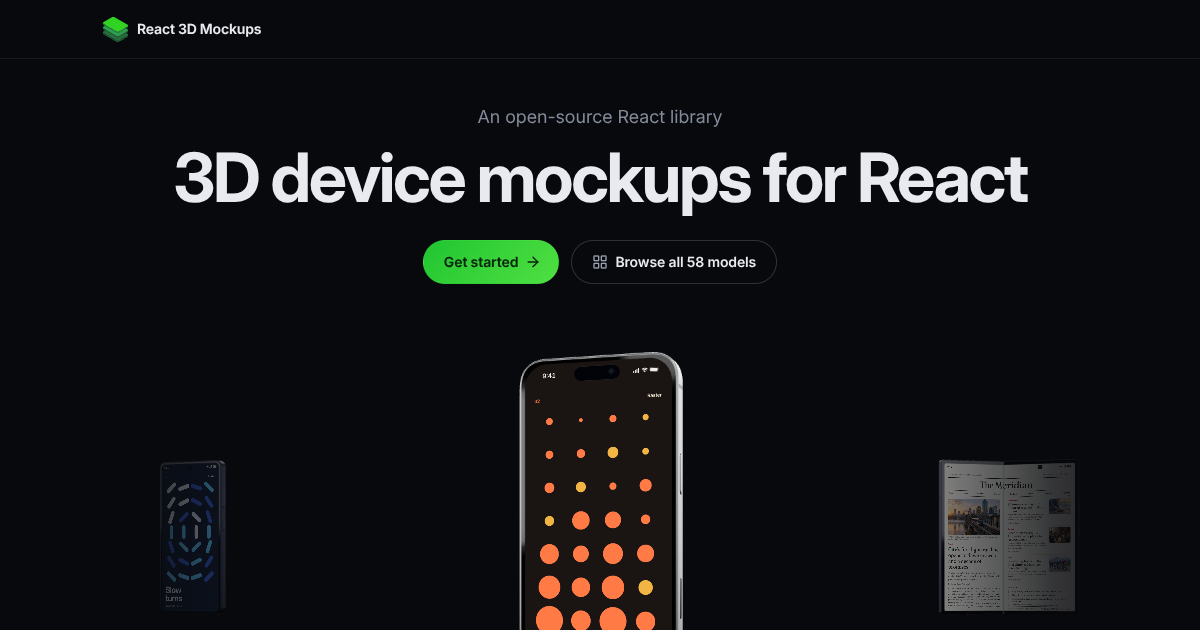
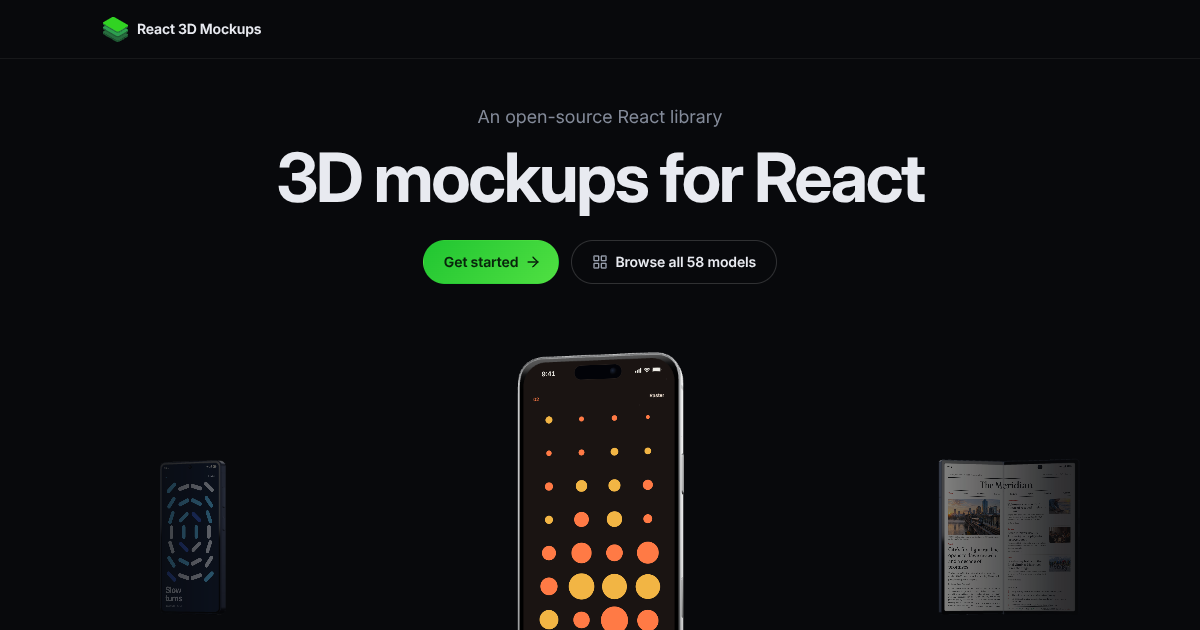
Home page: "3D mockups for React" and a turning model on stage; document screen input (#64)
Home page:
- The headline, the page title and the description drop "device": 58
  models, 25 of them objects - books, cartons, a bus. The social card is
  re-rendered with the new headline.
- The model on stage turns while autoplay runs, two turns a minute (the
  library's `autoRotate` step at speed 2, about 72 degrees over a slide). It
  is the slot's own turn, not the shared tumble's: the tumble resets on every
  slide change, which would snap the outgoing model back mid-flight. Weighted
  by how close the slot is to centre, the turn eases out as the model slides
  off stage and starts from nothing on its next visit. It stops with
  autoplay - on Pause, at the first interaction, off screen, and under a
  reduced-motion preference - so the Pause button still stops all motion.

Docs and READMEs, for `experimentalScreenInput` and `screenDrag`:
- package README: "Screens are display-only" becomes "Screens and input",
  which keeps the reasoning for the default and adds the experimental mode:
  how it works, who gets a drag, what it costs. Its old claim that lifting
  the DOM above the canvas "is the only way" and "that trade is not offered"
  is gone. Both props join the stage table; slots mention `screenDrag`.
- root README, introduction, quick start: one line each on the opt-in.
- accessibility: a section on screens that take input - they join the
  accessibility tree, so treat their content as page content.
[…]

Changed region(s): [[0.1233, 0.2413, 0.8633, 0.3619], [0.4317, 0.5429, 0.5858, 1.0], [0.1233, 0.754, 0.185, 0.9349]]

diff --git a/apps/docs/components/scenes/carousel-scene.tsx b/apps/docs/components/scenes/carousel-scene.tsx
@@ -51,7 +51,7 @@ import {
   type Colorway,
   type MockupKind,
 } from 'react-3d-mockups'
-import { DEFAULT_CAMERA_FOV, ORBIT } from 'react-3d-mockups/core'
+import { DEFAULT_CAMERA_FOV, ORBIT, tumbleAutoRotateStep } from 'react-3d-mockups/core'
 import { BillboardAdArt, ChalkHoursArt, ChalkMenuArt } from '../screens/print-art'
 import { SUNPEEL_FLAVOURS, SunpeelRear, SunpeelSide } from '../screens/bus-wrap'
 import { CartonBack, CartonFacts, CartonFront, CartonRoof, CartonStory } from '../screens/carton-art'
@@ -181,6 +181,14 @@ const CAROUSEL_OPEN_ANGLE = 150
 
 /** Resting pose - a slight turn reads as three-dimensional at a glance. */
 const BASE_RY = -0.3
+
+/**
+ * How fast the model on stage turns while autoplay runs, as the library's
+ * `autoRotate` speed: 2 is two turns a minute, about 72 degrees over one
+ * six-second slide - enough to read as turning, not so much that the screen
+ * spends the slide facing away.
+ */
+const STAGE_SPIN_SPEED = 2
 /**
  * Vertical limit, matched to the stage's polar clamp: the library's controls
  * orbit the camera between `ORBIT.minPolarAngle` and its mirror, which from a
@@ -958,16 +966,26 @@ function StageSlot({
   index,
   anim,
   tumble,
+  spin,
   color,
 }: {
   entry: Entry
   index: number
   anim: RefObject<number>
   tumble: RefObject<Tumble>
+  /** Whether the model on stage turns on its own: autoplay is running. */
+  spin: RefObject<boolean>
   color: string
 }) {
   const group = useRef<Group>(null)
   const hovered = useRef(false)
+  /*
+   * This slot's own turn, not the shared tumble's: the tumble resets on every
+   * slide change, which would snap the outgoing model back mid-flight. Kept
+   * per slot and weighted by `near` like the tumble, the turn eases out as
+   * the model slides off stage, and starts from nothing on its next visit.
+   */
+  const turn = useRef(0)
 
   /*
    * Priority -1, then an explicit matrix flush.
@@ -979,7 +997,7 @@ function StageSlot({
    * itself from where the device used to be, and the DOM visibly trails the
    * body while a slide is in flight.
    */
-  useFrame((state) => {
+  useFrame((state, delta) => {
     const g = group.current
     if (!g) return
     const extent = extentOf(entry, g)
@@ -988,12 +1006,16 @@ function StageSlot({
     // distinguishes the device on stage from the ones flanking it.
     const t = Math.min(Math.abs(d), 1)
     const near = 1 - t
+    // Only the model on stage turns; a frame after a hidden tab is clamped so
+    // it cannot jump.
+    if (spin.current && t < 0.5) turn.current += tumbleAutoRotateStep(Math.min(delta, 0.1), STAGE_SPIN_SPEED)
+    else if (t >= 1) turn.current = 0
     const scale = extent.scale * (1 - (1 - SIDE_SCALE) * t) * (hovered.current && t > 0.5 ? 1.05 : 1)
     g.position.x = d * SPACING - extent.cx * scale
     g.position.y = STAGE_Y - extent.cy * scale + Math.sin(state.clock.elapsedTime * 1.1) * 0.05 * near
     g.position.z = -1.4 * t
     g.scale.setScalar(scale)
-    g.rotation.y = (entry.yaw ?? 0) + BASE_RY + (tumble.current.yaw - BASE_RY) * near
+    g.rotation.y = (entry.yaw ?? 0) + BASE_RY + (tumble.current.yaw - BASE_RY + turn.current) * near
     g.rotation.x = ((entry.tilt ?? 0) + tumble.current.pitch) * near
     g.updateMatrixWorld(true)
   }, -1)
@@ -1218,6 +1240,13 @@ export default function CarouselScene() {
   const stageRef = useRef<HTMLDivElement>(null)
   const onScreen = useOnScreen(stageRef)
   const playing = autoOn && ready && onScreen
+  // Read every frame by the staged slots: the model on stage turns while
+  // autoplay runs, and stops with it - on Pause, at the first interaction,
+  // off screen, and under a reduced-motion preference.
+  const spinning = useRef(false)
+  useEffect(() => {
+    spinning.current = playing
+  }, [playing])
 
   useEffect(() => {
     if (!playing) return
@@ -1586,6 +1615,7 @@ export default function CarouselScene() {
                     index={i}
                     anim={anim}
                     tumble={tumble}
+                    spin={spinning}
                     color={colorOf(dev)}
                   />
                 ) : null

diff --git a/apps/docs/lib/prop-tables.generated.ts b/apps/docs/lib/prop-tables.generated.ts
@@ -37,6 +37,8 @@ export const SHARED_PROPS: PropDoc[] = [
     {"name":"onCreated","type":"(state) => void","default":"-","description":"react-three-fiber's onCreated, called once with the canvas state (gl, scene, camera, ...) - for example to read gl.info."},
     {"name":"label","type":"string","default":"per model","description":"Accessible name of the canvas, which has role=\"img\". Mockups default to a description of the model (\"3D mockup of a Galaxy S phone\"); MockupCanvas on its own to \"3D mockup\". See Accessibility."},
     {"name":"screenAccessibility","type":"'hidden' | 'visible'","default":"'hidden'","description":"Whether screen content is exposed to assistive technology. 'hidden' marks every screen aria-hidden and inert, so decorative screen content stays out of the accessibility tree and the tab order; 'visible' exposes it."},
+    {"name":"experimentalScreenInput","type":"boolean","default":"false","description":"Experimental. The screens take pointer and keyboard input: each screen's DOM is stacked above the canvas and clipped every frame to the part no hardware covers. Screens join the accessibility tree while it is on. See Screen content."},
+    {"name":"screenDrag","type":"boolean","default":"true","description":"With experimentalScreenInput: whether a drag that starts on a screen rotates the model (after 10 px, unless the content claims the drag). false leaves every drag on the screens to the content. A slot's own screenDrag overrides it for that screen. See Who gets a drag."},
     {"name":"className","type":"-","default":"-","description":"Forwarded to the canvas wrapper."},
     {"name":"style","type":"-","default":"-","description":"Forwarded to the canvas wrapper."},
   ]

diff --git a/apps/docs/app/llms.txt/route.ts b/apps/docs/app/llms.txt/route.ts
@@ -18,7 +18,7 @@ const HEADER = `# react-3d-mockups
 
 > 3D device and object mockups for React, rendered with three.js and react-three-fiber. Your content - React components, images, video, iframes - renders as live DOM on the screen or printable surface of a procedurally generated model: ${DEVICES.length} devices (phones, foldables, tablets, laptops, watches, a monitor) and ${OBJECTS.length} objects (print, packaging, out-of-home, vehicles, a TV, custom-size panels and boxes).
 
-Install with \`npm install react-3d-mockups three @react-three/fiber @react-three/drei\` (React 19). Screens are display-only: content renders live, but pointer input goes to the orbit controls, never to the screen. WebGL only exists in the browser, so SSR frameworks load mockups client side. The full text of every page below is at ${absoluteUrl('/llms-full.txt')}.`
+Install with \`npm install react-3d-mockups three @react-three/fiber @react-three/drei\` (React 19). By default screens are display-only: content renders live, but pointer input goes to the orbit controls, never to the screen. The experimental \`experimentalScreenInput\` prop lets screens take input, clipped to the part no hardware covers. WebGL only exists in the browser, so SSR frameworks load mockups client side. The full text of every page below is at ${absoluteUrl('/llms-full.txt')}.`
 
 function item(url: string) {
   const page = source.getPages().find((p) => p.url === url)

diff --git a/apps/docs/lib/site.ts b/apps/docs/lib/site.ts
@@ -20,9 +20,9 @@ export const SITE_URL = (
 ).replace(/\/$/, '')
 
 /** The home page's title and description, also the site-wide fallbacks. */
-export const SITE_TITLE = 'React 3D Mockups: 3D device mockups for React'
+export const SITE_TITLE = 'React 3D Mockups: 3D mockups for React'
 export const SITE_DESCRIPTION =
-  '3D device mockups for React, built on three.js. What you put on a screen - a component, a video, an iframe - is live DOM, and keeps running.'
+  '3D mockups of devices and objects for React, built on three.js. What you put on a screen - a component, a video, an iframe - is live DOM, and keeps running.'
 
 /**
  * The repository and the package, for every outbound link the site makes.

diff --git a/apps/docs/app/(site)/page.tsx b/apps/docs/app/(site)/page.tsx
@@ -239,7 +239,7 @@ export default function HomePage() {
           command is the first thing under the carousel instead. */}
       <section className="hero">
         <p className="eyebrow">An open-source React library</p>
-        <h1>3D device mockups for React</h1>
+        <h1>3D mockups for React</h1>
         <div className="hero-cta">
           <Link className="btn btn-primary" href="/docs/quick-start">
             Get started

diff --git a/packages/react/README.md b/packages/react/README.md
@@ -10,8 +10,9 @@
 put on a device's screen is regular DOM, positioned on the glass with CSS 3D
 transforms, so it keeps running: React state and effects, video, iframes. The browser draws the text, so it
 stays sharp at any angle. By default the screens are display-only: you rotate and zoom
-the model, and hardware in front of a screen hides it pixel for pixel
-([why](#screens-are-display-only)).
+the model, and hardware in front of a screen hides it pixel for pixel. An experimental
+prop, `experimentalScreenInput`, lets the screens take clicks, scrolling and typing
+([Screens and input](#screens-and-input)).
 
 > **In active development.** The API may change over the next few weeks. Breaking changes
 > are listed in the [changelog](https://github.com/area-is/react-3d-mockups/blob/main/CHANGELOG.md) with what to change;
@@ -135,7 +136,8 @@ type `AFrameSignMockup.` and your editor lists exactly the regions the object ha
 
 A slot takes the same three surface settings a mockup does - `surfaceBackground`,
 `resolution`, `surfaceStyle` - and overrides the mockup's for that one region. One
-vocabulary, whichever element you hang it off. Every surface has a name, so content
+vocabulary, whichever element you hang it off. (A slot also takes `screenDrag`, for
+[screens that take input](#screens-and-input).) Every surface has a name, so content
 lands where the name says no matter what order you write the slots in:
 
 ```tsx
@@ -184,6 +186,8 @@ straight through to the model's group (`<IPhoneMockup rotation={[0, 0.25, 0]}>`)
 | `onCreated` | `(state) => void` | - | r3f's `onCreated`, e.g. to read `gl.info` |
 | `label` | `string` | per model | Accessible name; the canvas is exposed as `role="img"` ("3D mockup of an iPhone") |
 | `screenAccessibility` | `'hidden' \| 'visible'` | `'hidden'` | Screens are decorative, so by default they are `aria-hidden` and `inert`; `'visible'` exposes their content |
+| `experimentalScreenInput` | `boolean` | `false` | Experimental: the screens take pointer and keyboard input. See [Screens and input](#screens-and-input) |
+| `screenDrag` | `boolean` | `true` | With `experimentalScreenInput`: whether a drag that starts on a screen rotates the model. A slot's own `screenDrag` overrides it for that screen |
 | `className` | `string` | - | Class on the wrapper element |
 | `style` | `CSSProperties` | - | Style on the wrapper element, which fills its parent by default |
 
@@ -259,29 +263,46 @@ camera, the tight rear 2× Thunderbolt 5 + 2× USB-C slot cluster, the captive p
 cord's circular recess framed by the stand's cable hole and, faithfully, no power
 button.
 
-## Screens are display-only
+## Screens and input
 
-Content on the glass renders live, but pointer events never reach it: clicks,
-scrolling and typing all belong to the orbit controls, so a drag anywhere -
-body, background, or screen - rotates the model.
+By default, content on the glass renders live but takes no input: clicks,
+scrolling and typing go to the orbit controls, and a drag anywhere - body,
+background, or screen - rotates the model. A screen's DOM is stacked *under* the
+canvas and masked by the depth buffer, so anything in front of the screen covers
+it exactly: a laptop's keyboard hides the screen's reflection, a camera ring
+stands over a wrap, a bus's mirrors draw over the livery. A pointer over the
+screen lands on the canvas, not on the content.
 
-That is deliberate, and it is what buys the mockup its looks. A screen is real
-DOM composited into a WebGL scene, and where that DOM sits in the stacking
-order decides how hardware can hide it. react-3d-mockups always stacks it *under*
-the canvas and masks it with the depth buffer, so anything in front of the
-screen covers it exactly, pixel for pixel: a laptop's keyboard hides the
-screen's reflection, a proud camera ring stands over a wrap, a bus's mirrors
-draw over the livery.
+### Experimental: `experimentalScreenInput`
 
-Lifting the DOM above the canvas is the only way to make it clickable, and it
-costs exactly that masking - nothing in the scene can visually cover DOM that
-sits on top of it. Hiding degrades to an all-or-nothing guess from sample rays,
-which is wrong in both directions: content shows through hardware that should
-hide it, and a mostly-visible screen can blank out entirely. Mockups exist to
-look right, so that trade is not offered.
+```tsx
+<LaptopMockup experimentalScreenInput>
+  <YourApp />
+</LaptopMockup>
+```
 
-If you need a genuinely usable embedded app, render it in the page next to the
-mockup rather than on it.
+With it on, each screen's DOM is stacked above the canvas and clipped every frame
+to the part of it that no hardware covers, read from the canvas's own pixels.
+Clicks, hover, scrolling, focus and typing reach the content, iframes included,
+and hardware in front of a screen still covers it.
+
+A tap or click on a screen goes to the content. A drag that starts on a screen
+rotates the model once it has moved 10 px, unless:
+
+- `screenDrag={false}` is set on the mockup, or on that screen's slot
+  (`<LaptopMockup.Screen screenDrag={false}>`);
+- it starts on a form control (text field, slider, select, editable text) or
+  inside an element marked `data-mockup-no-rotate`;
+- the content captures the pointer with `setPointerCapture`.
+
+On touch, a mostly vertical swipe scrolls instead. Drags on the hardware and the
+background always rotate the model.
+
+What it costs: after every frame the canvas draws, each screen reads its pixels
+back from the canvas; the clipping and drag code (about 2 KB gzip) loads the first
+time a screen takes input; and the screens join the accessibility tree while it is
+on. The prop's name and behavior may change in a later release. The docs cover it
+in more detail: [Screen content](https://area.is/react-3d-mockups/docs/screen-content#experimental-screens-that-take-input).
 
 The screen renders in its own React root, and React context from above the mockup -
 a theme, i18n, your router, a query client - is bridged into it, so screen content

diff --git a/README.md b/README.md
@@ -24,7 +24,9 @@
 positioned on the glass with CSS 3D transforms, so it keeps running: React state and
 effects, video, iframes. The browser draws the text, so it stays sharp at any angle. By default the
 screens don't take input: dragging rotates the model, and hardware in front of a
-screen hides it pixel for pixel.
+screen hides it pixel for pixel. An experimental prop, `experimentalScreenInput`,
+lets them take clicks, scrolling and typing while hardware still covers them
+([how it works](https://area.is/react-3d-mockups/docs/screen-content#experimental-screens-that-take-input)).
 
 > **In active development.** The API may change over the next few weeks. Breaking changes
 > are listed in the [changelog](CHANGELOG.md) with what to change; pin an exact version
